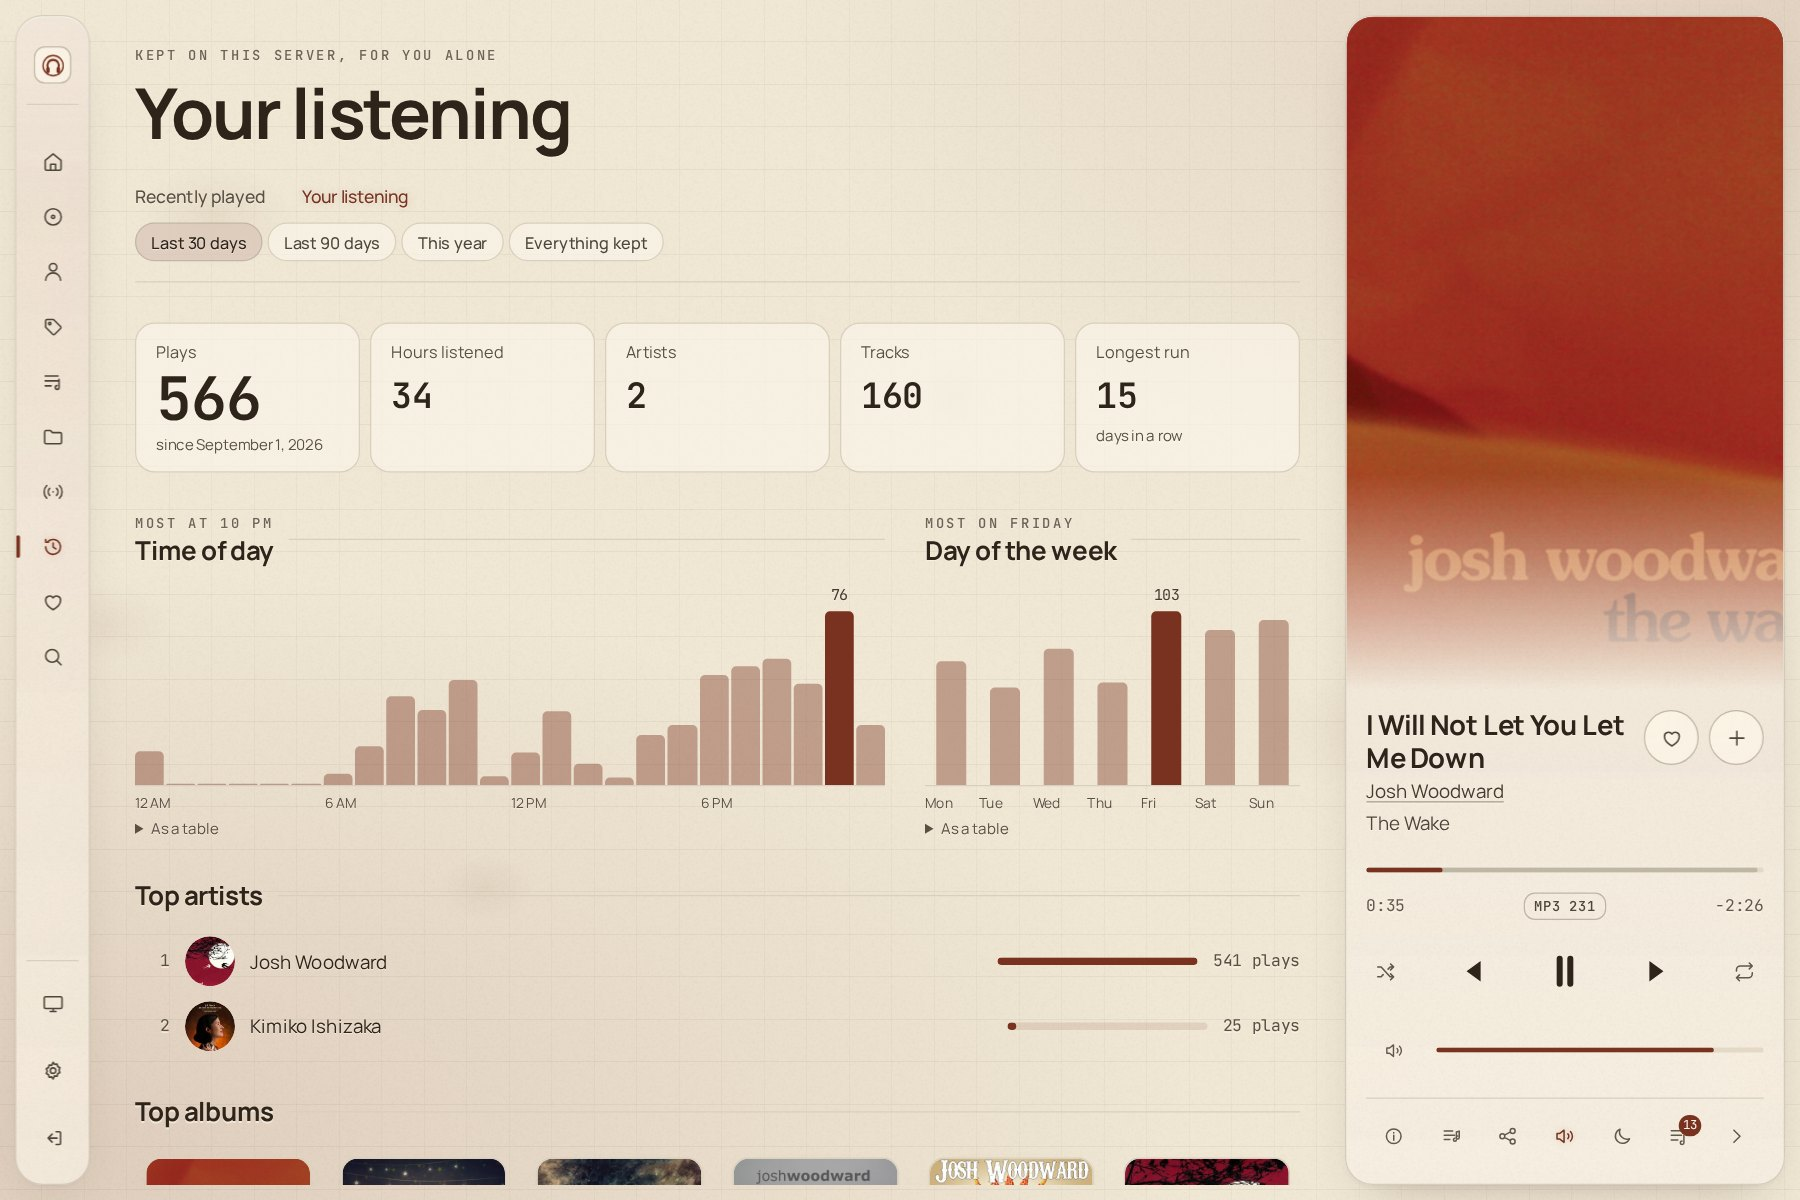
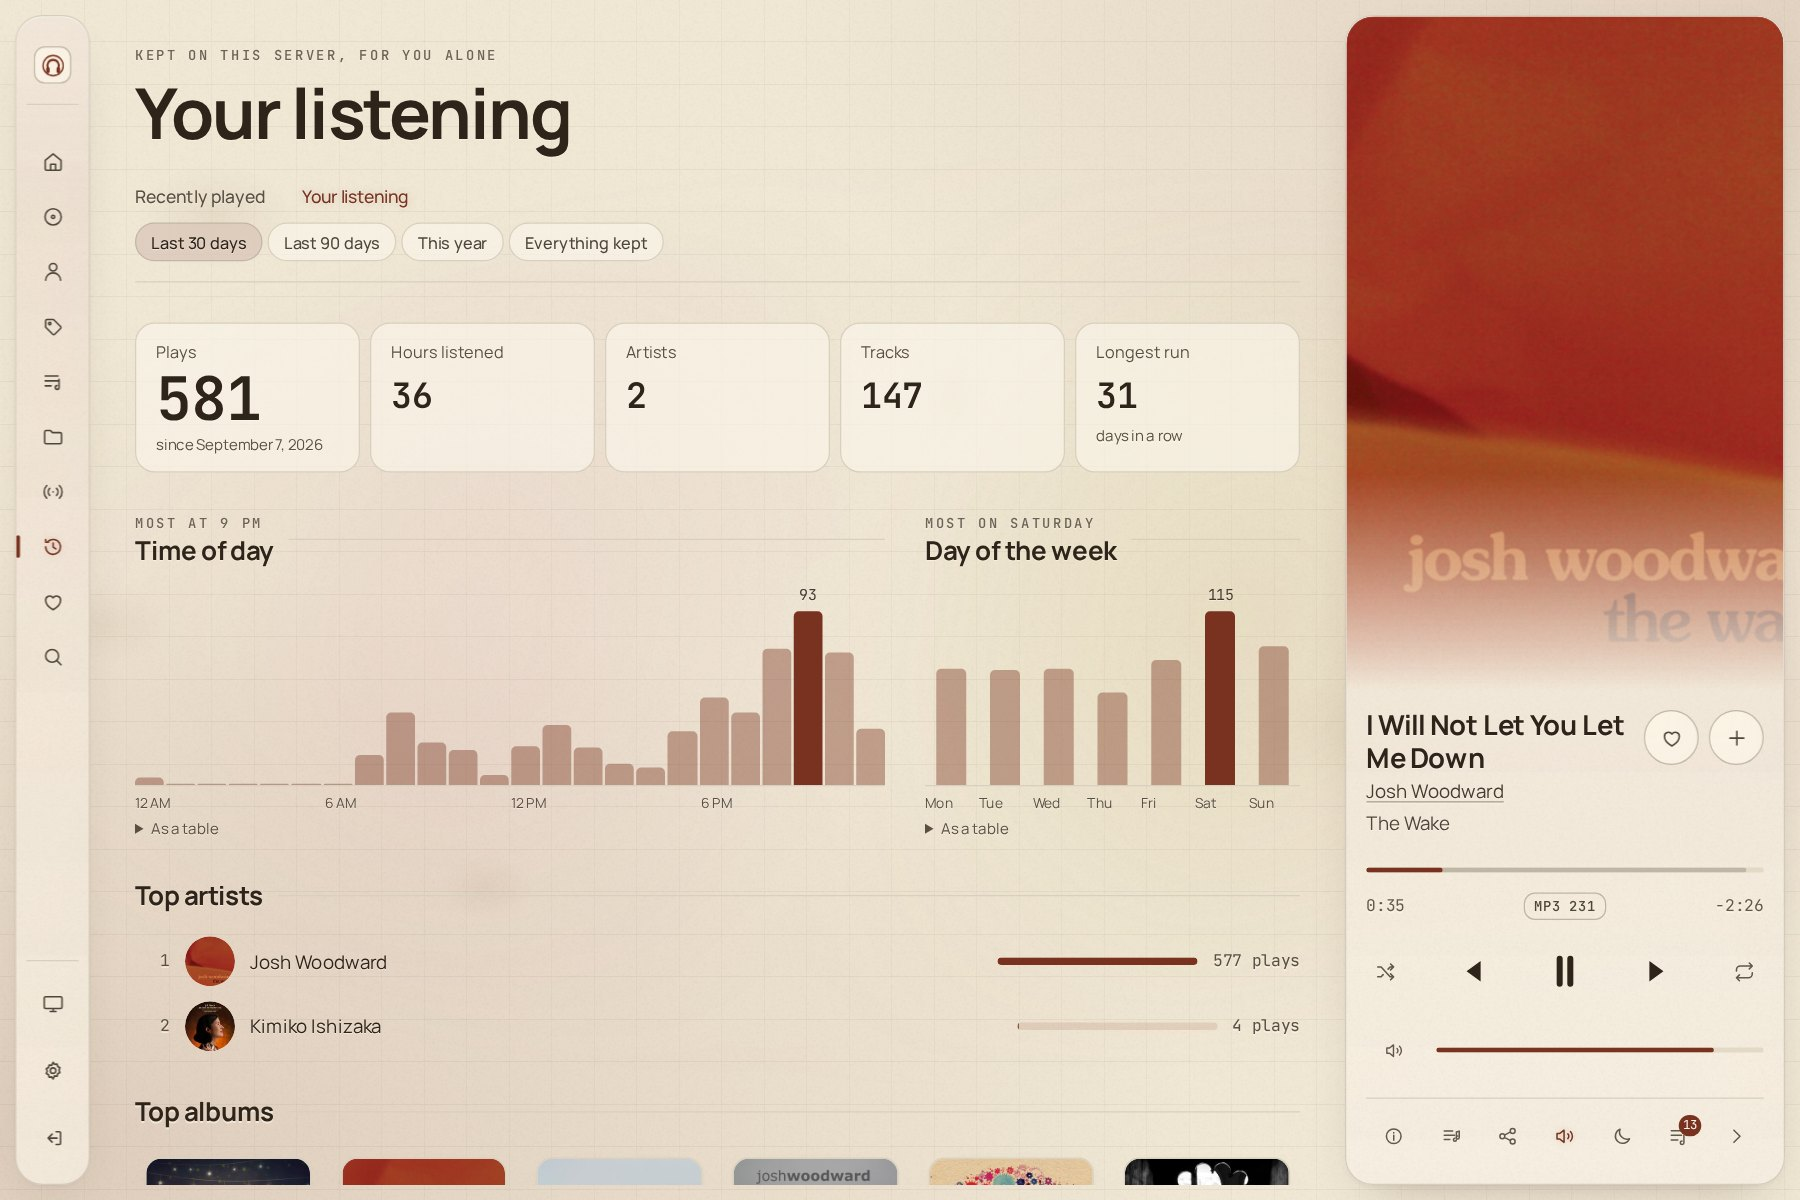
feat: the screenshots retaken with the aurora on
capture.mjs asks for the aurora by name in the settings it writes after signing in, so the captures show it whichever way the release in the image has it by default. The fourteen shots are retaken on 0.5.0-hotfix1 with it moving, and the social preview is rendered again from the new phone player and album shots. The shared song is the page a visitor without an account gets, which has no aurora.

Your listening counts 581 plays and 36 hours in the new capture, and the page says the same.

diff --git a/index.html b/index.html
@@ -245,7 +245,7 @@
 					<article class="cell cell--4 pane" data-reveal="rise" data-live>
 						<!-- The figures and the shape of the chart are those of the Your listening screenshot below. -->
 						<div class="vig vig-hours" aria-hidden="true" data-hours>
-							<p class="tally"><span><b data-count="566">566</b> plays</span><span><b data-count="34">34</b> hours</span></p>
+							<p class="tally"><span><b data-count="581">581</b> plays</span><span><b data-count="36">36</b> hours</span></p>
 							<div class="hours">
 								<i style="--v: 0.2"></i><i style="--v: 0.02"></i><i style="--v: 0.02"></i><i style="--v: 0.02"></i><i style="--v: 0.02"></i><i style="--v: 0.02"></i><i style="--v: 0.08"></i><i style="--v: 0.22"></i><i style="--v: 0.5"></i><i style="--v: 0.43"></i><i style="--v: 0.6"></i><i style="--v: 0.04"></i><i style="--v: 0.18"></i><i style="--v: 0.36"></i><i style="--v: 0.08"></i><i style="--v: 0.03"></i><i style="--v: 0.29"></i><i style="--v: 0.33"></i><i style="--v: 0.63"></i><i style="--v: 0.69"></i><i style="--v: 0.77"></i><i style="--v: 0.57"></i><i class="peak" style="--v: 1"></i><i style="--v: 0.33"></i>
 							</div>
@@ -312,8 +312,8 @@
 							<figcaption><span class="index">b</span>More from the artist, under the track list</figcaption>
 						</figure>
 						<figure class="slide" id="slide-listening" role="tabpanel" aria-labelledby="tab-listening">
-							<img data-for="dark" src="assets/shots/listening.jpg" width="1800" height="1200" alt="Your listening over the last 30 days: 566 plays, 34 hours, a chart of plays by the hour of the day and one by the day of the week, and the top artists and albums" loading="lazy" />
-							<img data-for="light" src="assets/shots/listening-light.jpg" width="1800" height="1200" alt="Your listening over the last 30 days: 566 plays, 34 hours, a chart of plays by the hour of the day and one by the day of the week, and the top artists and albums" loading="lazy" />
+							<img data-for="dark" src="assets/shots/listening.jpg" width="1800" height="1200" alt="Your listening over the last 30 days: 581 plays, 36 hours, a chart of plays by the hour of the day and one by the day of the week, and the top artists and albums" loading="lazy" />
+							<img data-for="light" src="assets/shots/listening-light.jpg" width="1800" height="1200" alt="Your listening over the last 30 days: 581 plays, 36 hours, a chart of plays by the hour of the day and one by the day of the week, and the top artists and albums" loading="lazy" />
 							<figcaption><span class="index">c</span>Your listening: the history summed up, by 30 days, 90 days, the year or everything kept</figcaption>
 						</figure>
 						<figure class="slide" id="slide-share" role="tabpanel" aria-labelledby="tab-share">
